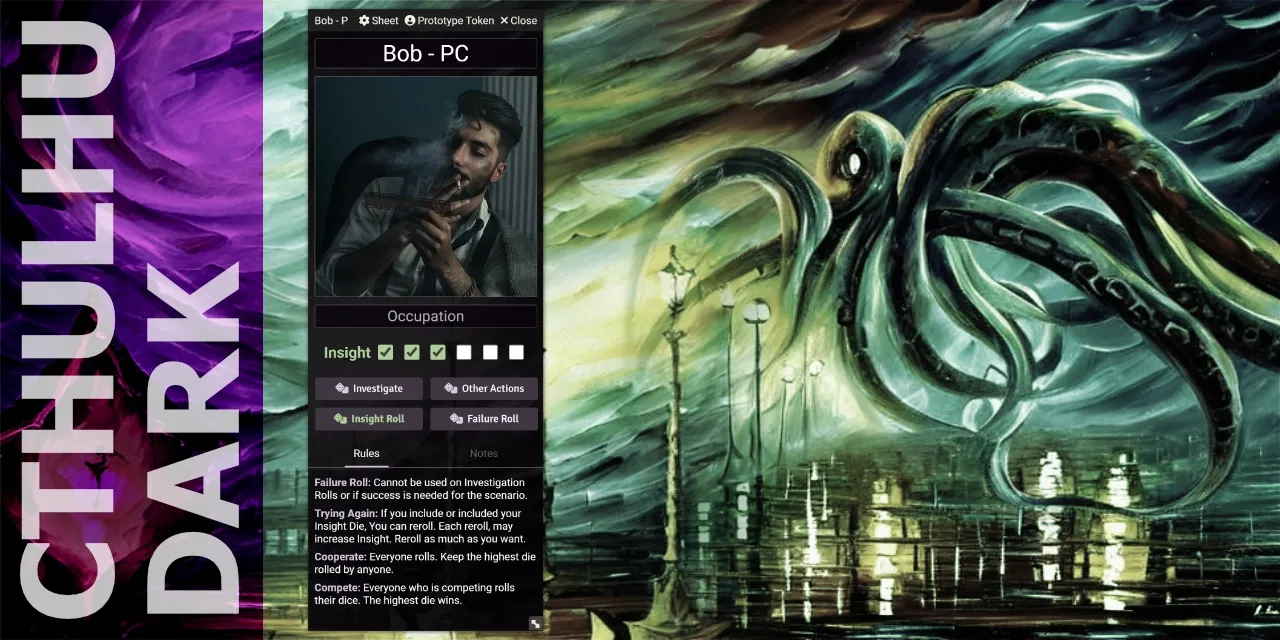
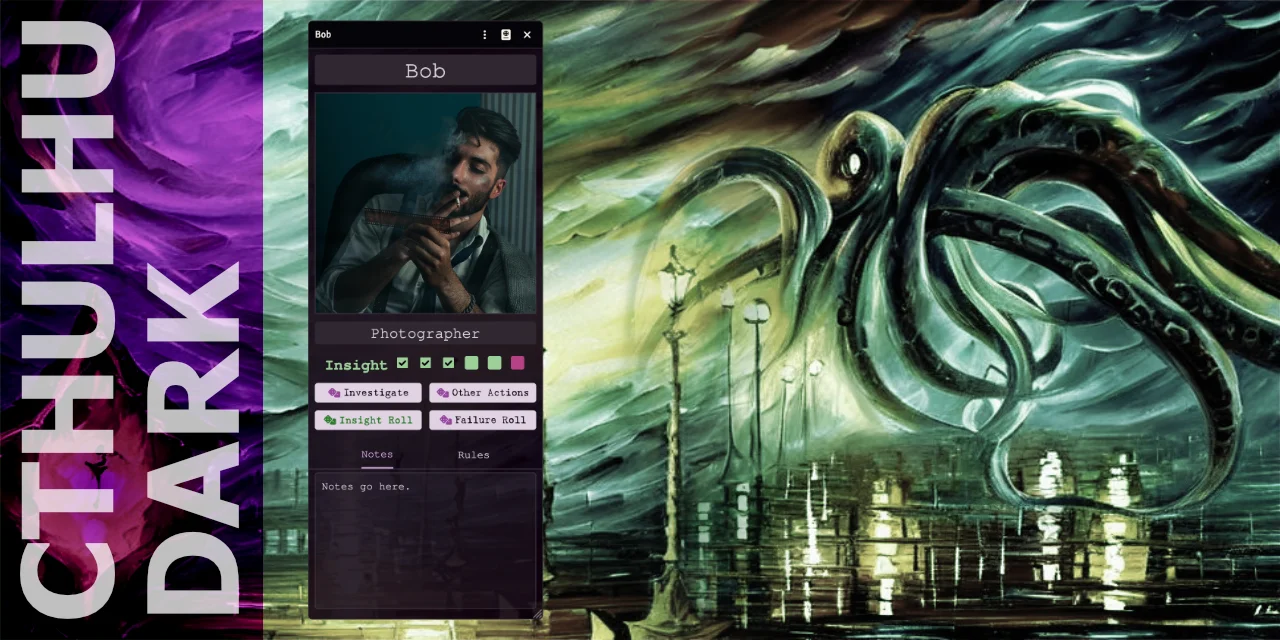
image and read me updates

Changed region(s): [[0.2188, 0.0, 0.4375, 1.0], [0.0312, 0.6562, 0.125, 0.875]]

diff --git a/css/cthulhudark.css b/css/cthulhudark.css
@@ -86,16 +86,16 @@
   color: var(--cthulhudark-c-insight) !important;
 }
 
+.insight-lt-color {
+  color: var(--cthulhudark-c-lt-insight) !important;
+}
+
 .base-color {
   color: var(--cthulhudark-c-black) !important;
 }
 
 .error-color {
   color: var(--cthulhudark-c-pink) !important;
-}
-
-.insight-die {
-  color: var(--cthulhudark-c-lt-insight) !important;
 }
 
 .font-large {

diff --git a/scss/global/_window.scss b/scss/global/_window.scss
@@ -6,16 +6,16 @@
 	color: $c-insight !important;
 }
 
+.insight-lt-color {
+	color: $c-lt-insight !important;
+}
+
 .base-color {
 	color: $c-black !important;
 }
 
 .error-color {
 	color: $c-pink !important;
-}
-
-.insight-die {
-	color: $c-lt-insight !important;
 }
 
 .font-large {

diff --git a/README.md b/README.md
@@ -43,7 +43,8 @@ An unofficial, community-supported system for playing the Cthulhu Dark TTRPG (Cr
 If you’ve enjoyed my work and find value in what I create, please consider supporting me with a small donation on [Ko-fi](https://ko-fi.com/G2G3I91JQ). I truly love what I do, and your support helps me dedicate time and resources to ongoing development. Every contribution, no matter the size, makes a difference and allows me to continue doing what I’m passionate about. Thank you for considering—it means the world to me.
 
 Image of the Character Sheet and roll messages in Foundry's chat:
-![Screenshot](./assets/CD_screenshot.webp)
+![Screenshot of pc, npc sheets, and rolls in the chat in dark mode](./assets/CD_screenshot.webp)
+![Screenshot of pc, npc sheets, and rolls in the chat in light mode](./assets/CD_screenshot-lt.webp)
 
 > [!WARNING]
 > ### Cthulhu Dark V2.0+
@@ -70,6 +71,7 @@ Image of the Character Sheet and roll messages in Foundry's chat:
 ## To Be Done
 
 - Automatically roll insight and apply any updates when a roll calls for it
+- fix items
 
 ## How to Install
 
